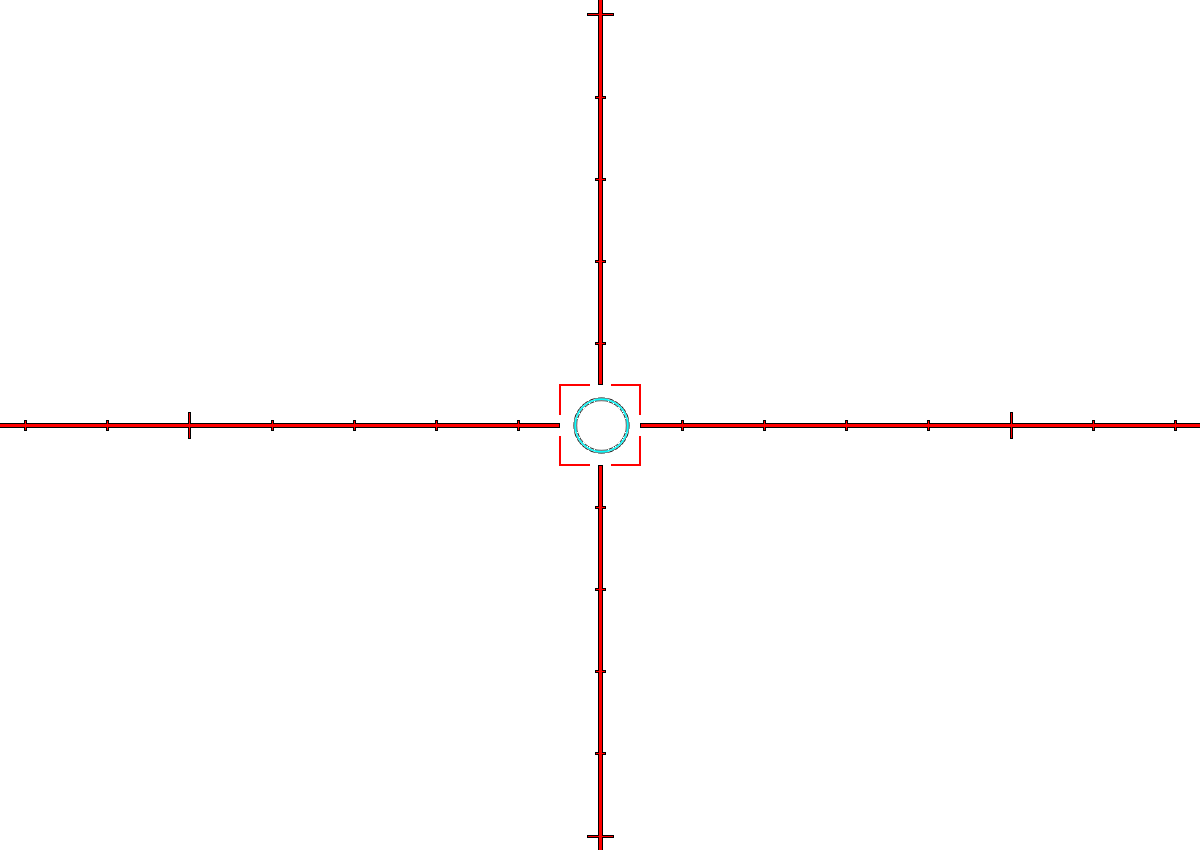
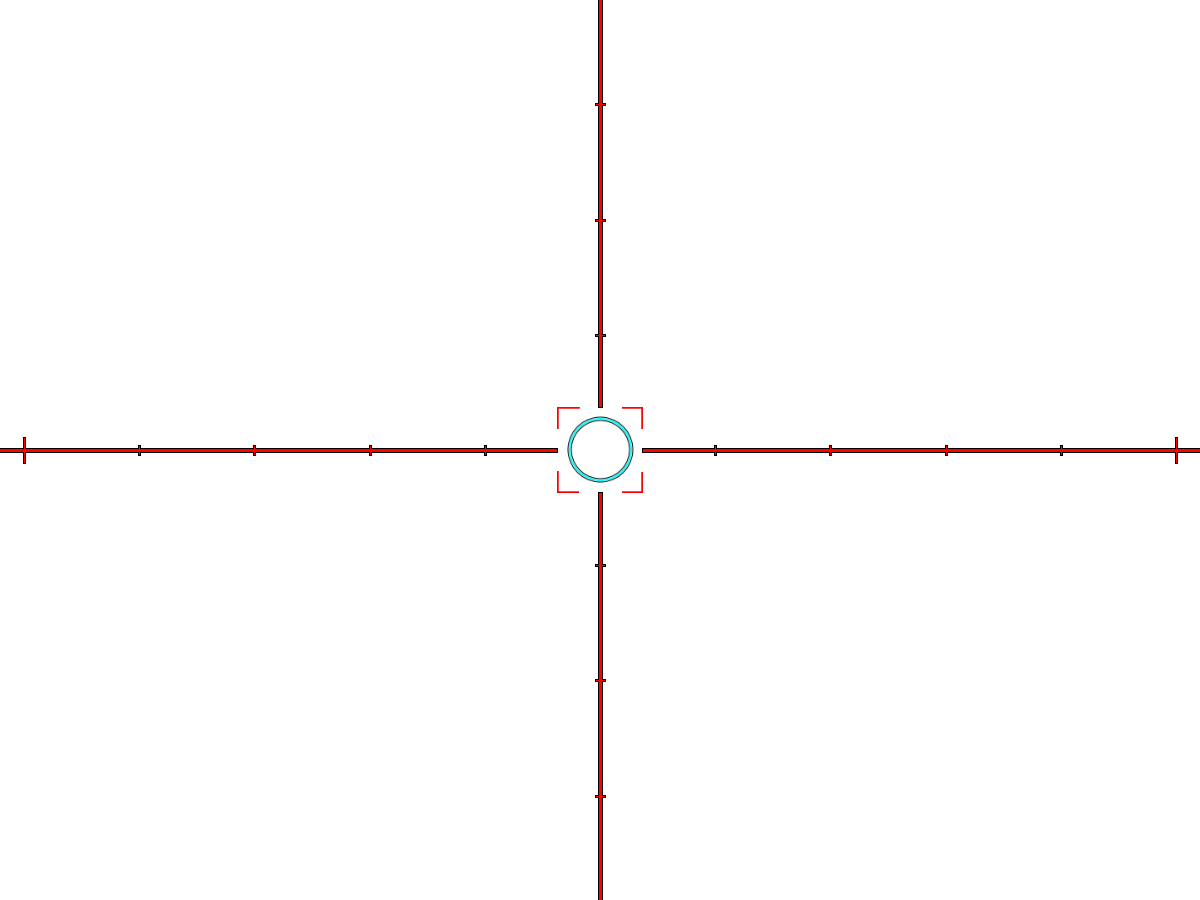
Cross correction according to camera in add marker and go to marker in presets

Changed region(s): [[0.0, 0.4282, 1.0, 0.5506]]

diff --git a/lib/PTZDriver.js b/lib/PTZDriver.js
@@ -1,7 +1,7 @@
 "use strict";
 
-var currentDayZoom = 1;
-var currentIRZoom = 1;
+global.currentDayZoom = 1;
+global.currentIRZoom = 1;
 var flag = 0;
 var speed = 1;
 
@@ -27,25 +27,6 @@ const doubleClick = require('./double_click');
 var net = require("net");
 var events = require("events");
 const CommandClient = require("./CommandClient");
-
-// function setZooming(funcCurrentDayZoom) {
-//     currentDayZoom = funcCurrentDayZoom;
-//     CommandClient.setDayZoomForPTZ(currentDayZoom);
-//     if (currentDayZoom == 4) {
-//         currentIRZoom = 2;
-//         CommandClient.setZoomPTZ(currentIRZoom);
-//     }
-                
-//     if (currentDayZoom == 5) {
-//         currentIRZoom = 3;
-//         CommandClient.setZoomPTZ(currentIRZoom);
-//     }
-
-//     if (currentDayZoom == 6) {
-//         currentIRZoom = 4;
-//         CommandClient.setZoomPTZ(currentIRZoom);
-//     }
-// }
 
 var ReconnectingStream = (function (_super) {
     __extends(ReconnectingStream, _super);
@@ -283,27 +264,27 @@ var PTZDriver = (function () {
                     _this.pelcod.setTiltSpeed(tilt_speed);
                     _this.pelcod.zoomIn(false).zoomOut(false);
                     if (z > 0) {
-                        if (currentDayZoom < 6 && currentDayZoom >= 1) {
-                            currentDayZoom = currentDayZoom + 1;
-                            if (currentDayZoom >= 4) {
-                            currentIRZoom = currentIRZoom + 1;
-                            console.log("Current IR zoom: ", currentIRZoom);
-                            CommandClient.setZoomPTZ(currentIRZoom);
+                        if (global.currentDayZoom < 6 && global.currentDayZoom >= 1) {
+                            global.currentDayZoom = global.currentDayZoom + 1;
+                            if (global.currentDayZoom >= 4) {
+                            global.currentIRZoom = global.currentIRZoom + 1;
+                            console.log("Current IR zoom: ", global.currentIRZoom);
+                            CommandClient.setZoomPTZ(global.currentIRZoom);
                         }
                         }
-                        CommandClient.setDayZoomForPTZ(currentDayZoom);
+                        CommandClient.setDayZoomForPTZ(global.currentDayZoom);
 
                         _this.pelcod.zoomIn(true); }
                     if (z < 0) {
-                        if (currentDayZoom <= 6 && currentDayZoom > 1) {
-                            currentDayZoom = currentDayZoom - 1;
-                            if (currentDayZoom >= 4) {
-                                currentIRZoom = currentIRZoom - 1;
-                                console.log("Current IR zoom: ", currentIRZoom);
-                                CommandClient.setZoomPTZ(currentIRZoom);
+                        if (global.currentDayZoom <= 6 && global.currentDayZoom > 1) {
+                            global.currentDayZoom = global.currentDayZoom - 1;
+                            if (global.currentDayZoom >= 4) {
+                                global.currentIRZoom = global.currentIRZoom - 1;
+                                console.log("Current IR zoom: ", global.currentIRZoom);
+                                CommandClient.setZoomPTZ(global.currentIRZoom);
                             }
                         }
-                        CommandClient.setDayZoomForPTZ(currentDayZoom);
+                        CommandClient.setDayZoomForPTZ(global.currentDayZoom);
                  
                         _this.pelcod.zoomOut(true); }
                     var abs_z = Math.abs(z);
@@ -433,9 +414,9 @@ var PTZDriver = (function () {
                 let xcoord = commandClient.convertX(data.pan);
                 let ycoord = commandClient.convertY(data.tilt);
 
-                console.log("---------: p and t converted", xcoord, ycoord, currentDayZoom)
+                console.log("---------: p and t converted", xcoord, ycoord, global.currentDayZoom)
 
-                doubleClick.onDoubleClick(xcoord, ycoord, currentDayZoom);
+                doubleClick.onDoubleClick(xcoord, ycoord, global.currentDayZoom);
                 try {
                     p = parseFloat(data.pan);
                 }

diff --git a/lib/double_click.js b/lib/double_click.js
@@ -199,8 +199,6 @@ function clearNumpad() {
     updatePresetsInputJSON({ numpad_flag: 0, digit: "" });
 }
 
-
-
 // ─────────────────────────────────────────────────────────────────────────────
 // 4) MENU‐RELATED FUNCTIONS
 // ─────────────────────────────────────────────────────────────────────────────
@@ -644,13 +642,15 @@ function onDoubleClick(x, y, zoom) {
     // grab current PTZ encoders
     const Az = CommandClient.getCrctEncoderAz();
     const El = CommandClient.getCrctEncoderEl();
+    const irZoom = global.currentIRZoom;
+    const dayZoom = global.currentDayZoom;
 
     // persist into a side‐file
     try {
       const raw = fs.readFileSync(PRESETS_POSITIONS_PATH, 'utf-8');
       const positions = JSON.parse(raw);
       // map this slot index → { az, el }
-      positions[currentPresetIndex] = { az: Az, el: El };
+      positions[currentPresetIndex] = { az: Az, el: El, zoomIR: irZoom, zoomDay: dayZoom };
       fs.writeFileSync(
         PRESETS_POSITIONS_PATH,
         JSON.stringify(positions, null, 2)
@@ -712,8 +712,10 @@ for (let i = 0; i < 10; i++) {
         const raw    = fs.readFileSync(PRESETS_POSITIONS_PATH, 'utf-8');
         const posMap = JSON.parse(raw);
         const pos    = posMap[i];
-        if (pos && pos.az != null && pos.el != null) {
-          CommandClient.setMarkerPosition(pos.az, pos.el);
+        if (pos && pos.az != null && pos.el != null && parseInt(pos.zoomDay) != null && parseInt(pos.zoomIR) != null) {
+          global.currentIRZoom = pos.irZoom;
+          global.currentDayZoom = pos.dayZoom;
+          CommandClient.setMarkerPosition(pos.az, pos.el, parseInt(pos.zoomDay), parseInt(pos.zoomIR));
         }
       } catch (err) {
         console.error("Error loading preset position:", err);

diff --git a/lib/CommandClient.js b/lib/CommandClient.js
@@ -1061,12 +1061,15 @@ class CommandClient {
         this.sendCommand1(cmd1);
     }
 
-    setMarkerPosition(Az, El) {
+    setMarkerPosition(Az, El, irZoom, dayZoom) {
         const cmd = `>ADR=STMD/SMDD=STMD_tgt_pe_Az/LD=${Az}/`;
         const cmd1 = `>ADR=STMD/SMDD=STMD_tgt_pe_El/LD=${El}/`;
         console.log('[CommandClient1] Set Marker Position command:', cmd);
         this.sendCommand1(cmd);
         this.sendCommand1(cmd1);
+        console.log("!!!!!@@@ Zooms are @@@!!!!!!", irZoom, dayZoom)
+        this.setZoomPTZ(irZoom);
+        this.setDayZoomForPTZ(dayZoom);
     }
 
     setPTZStop(value) {

diff --git a/python/gst-rtsp-launch.py b/python/gst-rtsp-launch.py
@@ -401,7 +401,7 @@ class StreamServer:
                         # Initialize marker_name when add_marker_flag is set
                         if overlay_data["add_marker_flag"] == 1:
                             overlay_data["marker_name"] = ""
-                        log.debug(f"[DEBUG] Loaded presets.json → add_marker_flag={overlay_data['add_marker_flag']}")
+                        #log.debug(f"[DEBUG] Loaded presets.json → add_marker_flag={overlay_data['add_marker_flag']}")
                 except Exception as e:
                     log.warning(f"[Overlay Watcher] Failed to read presets: {e}")
 
